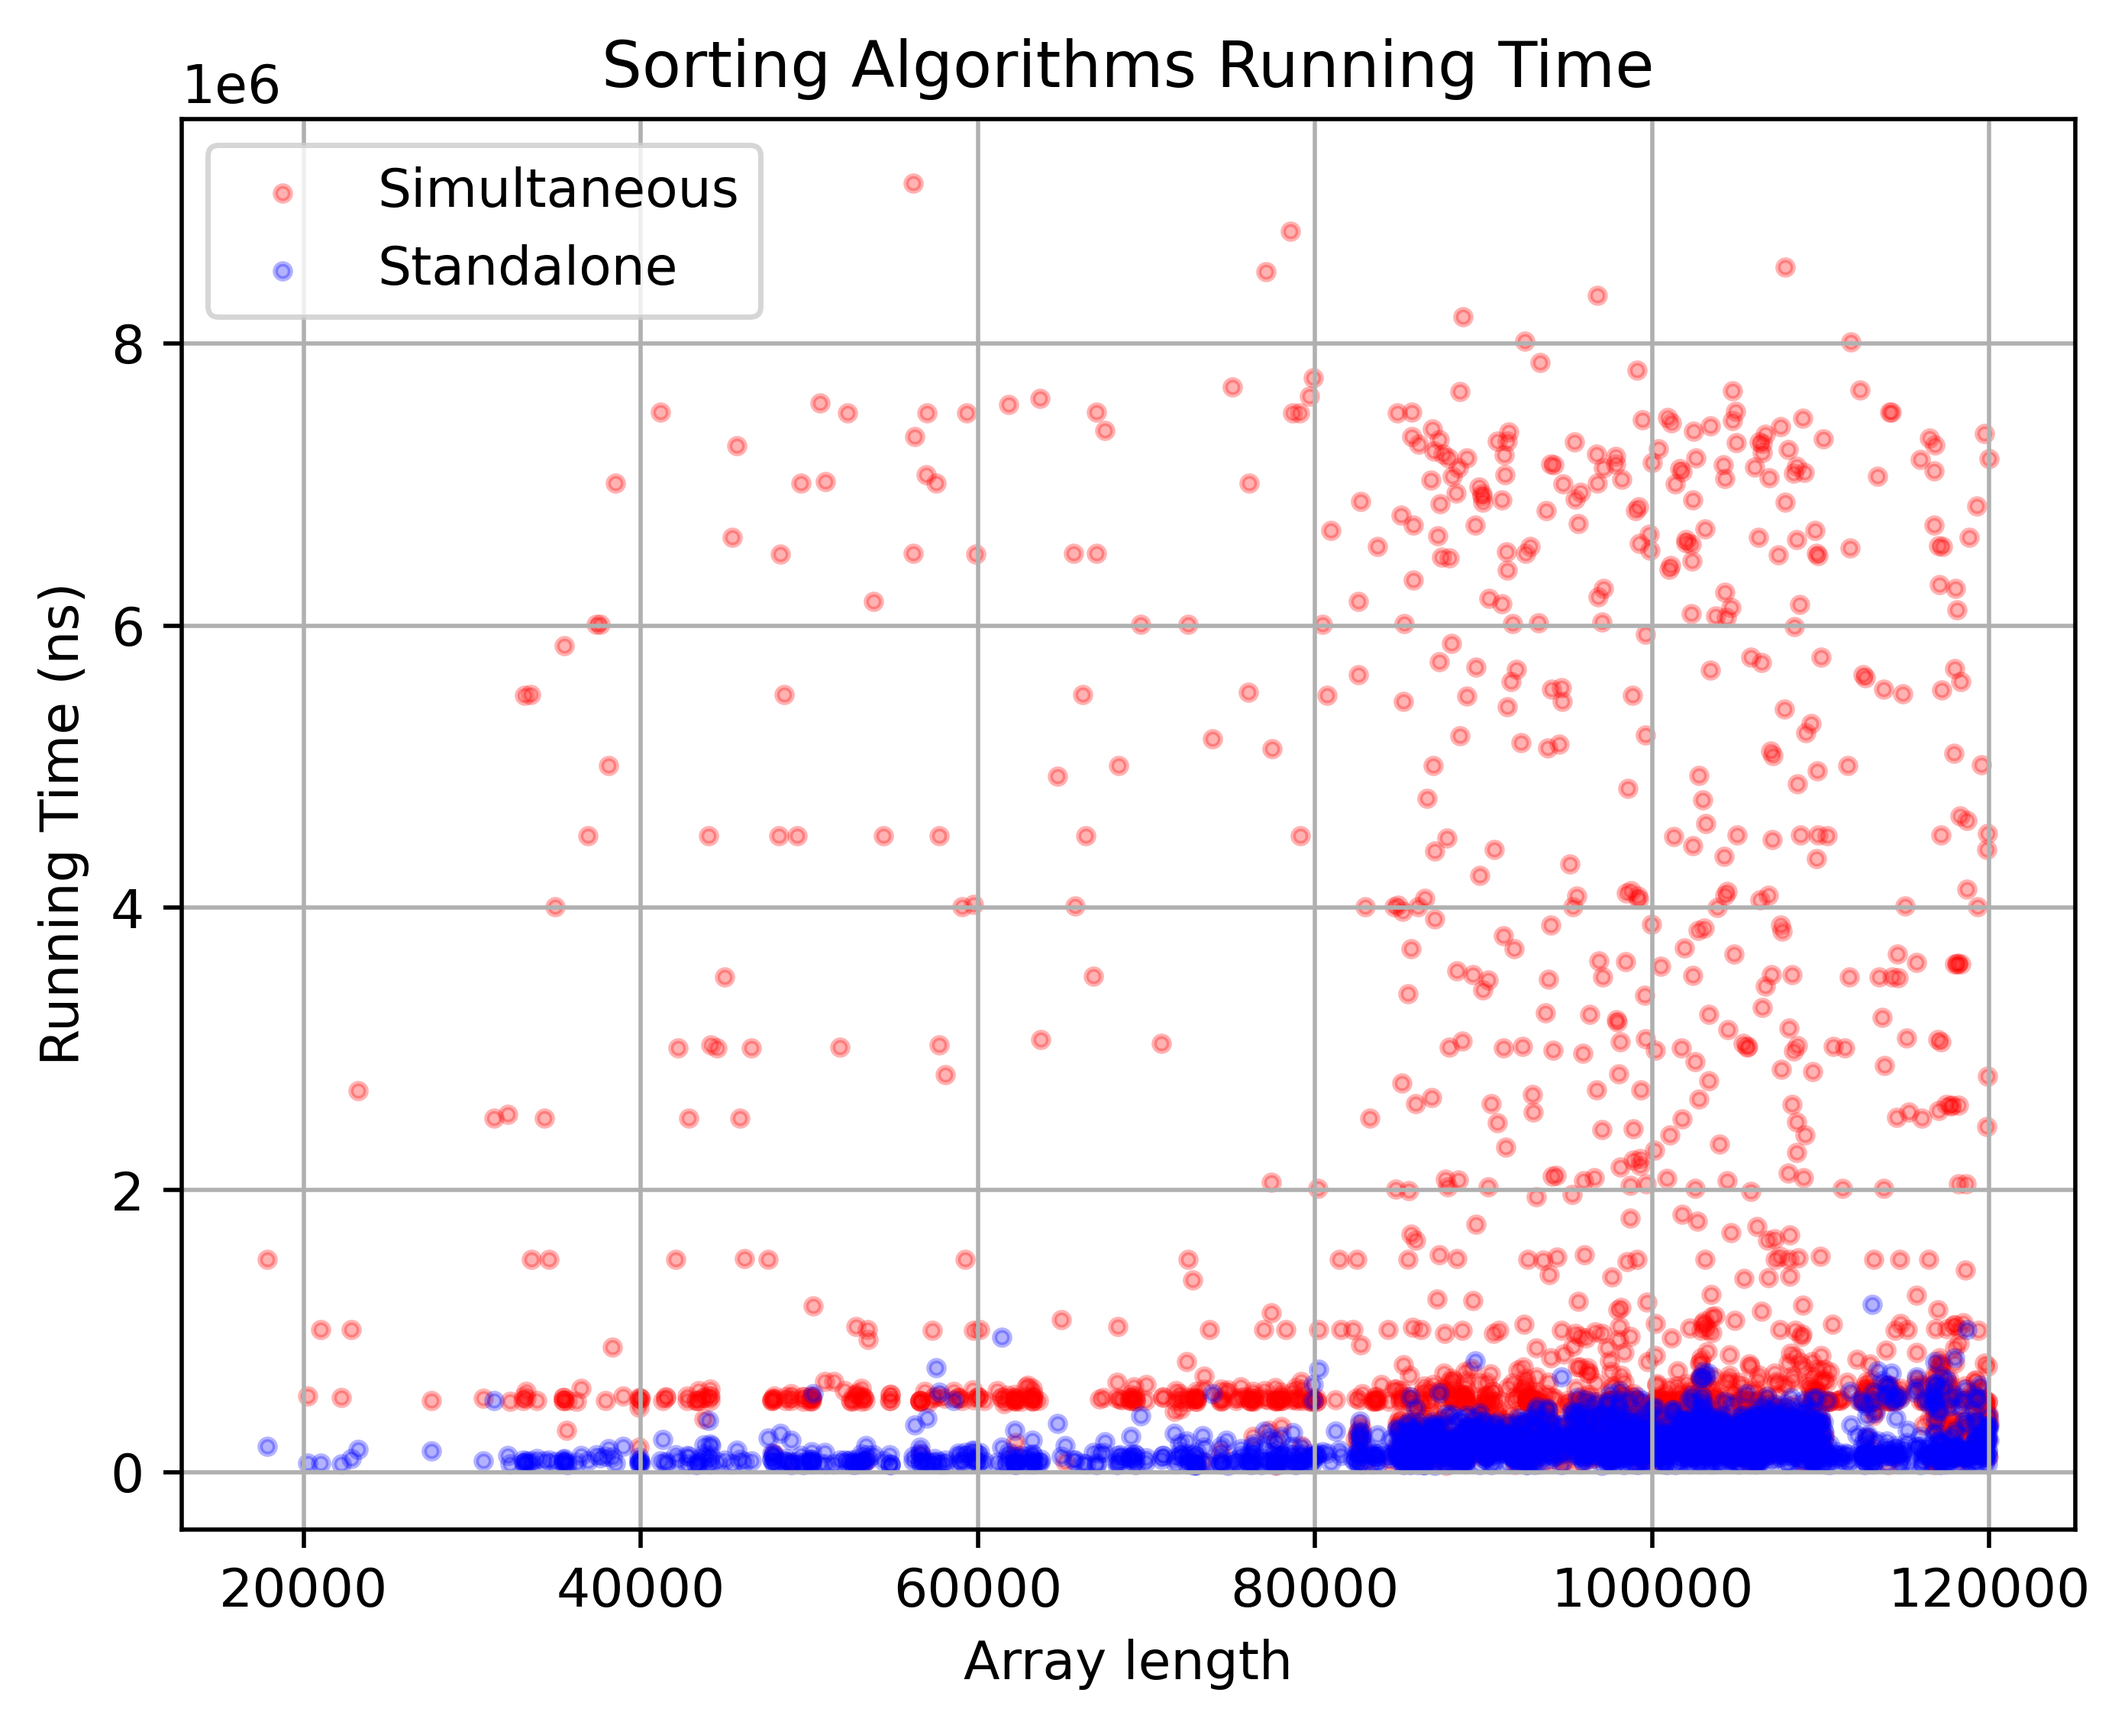
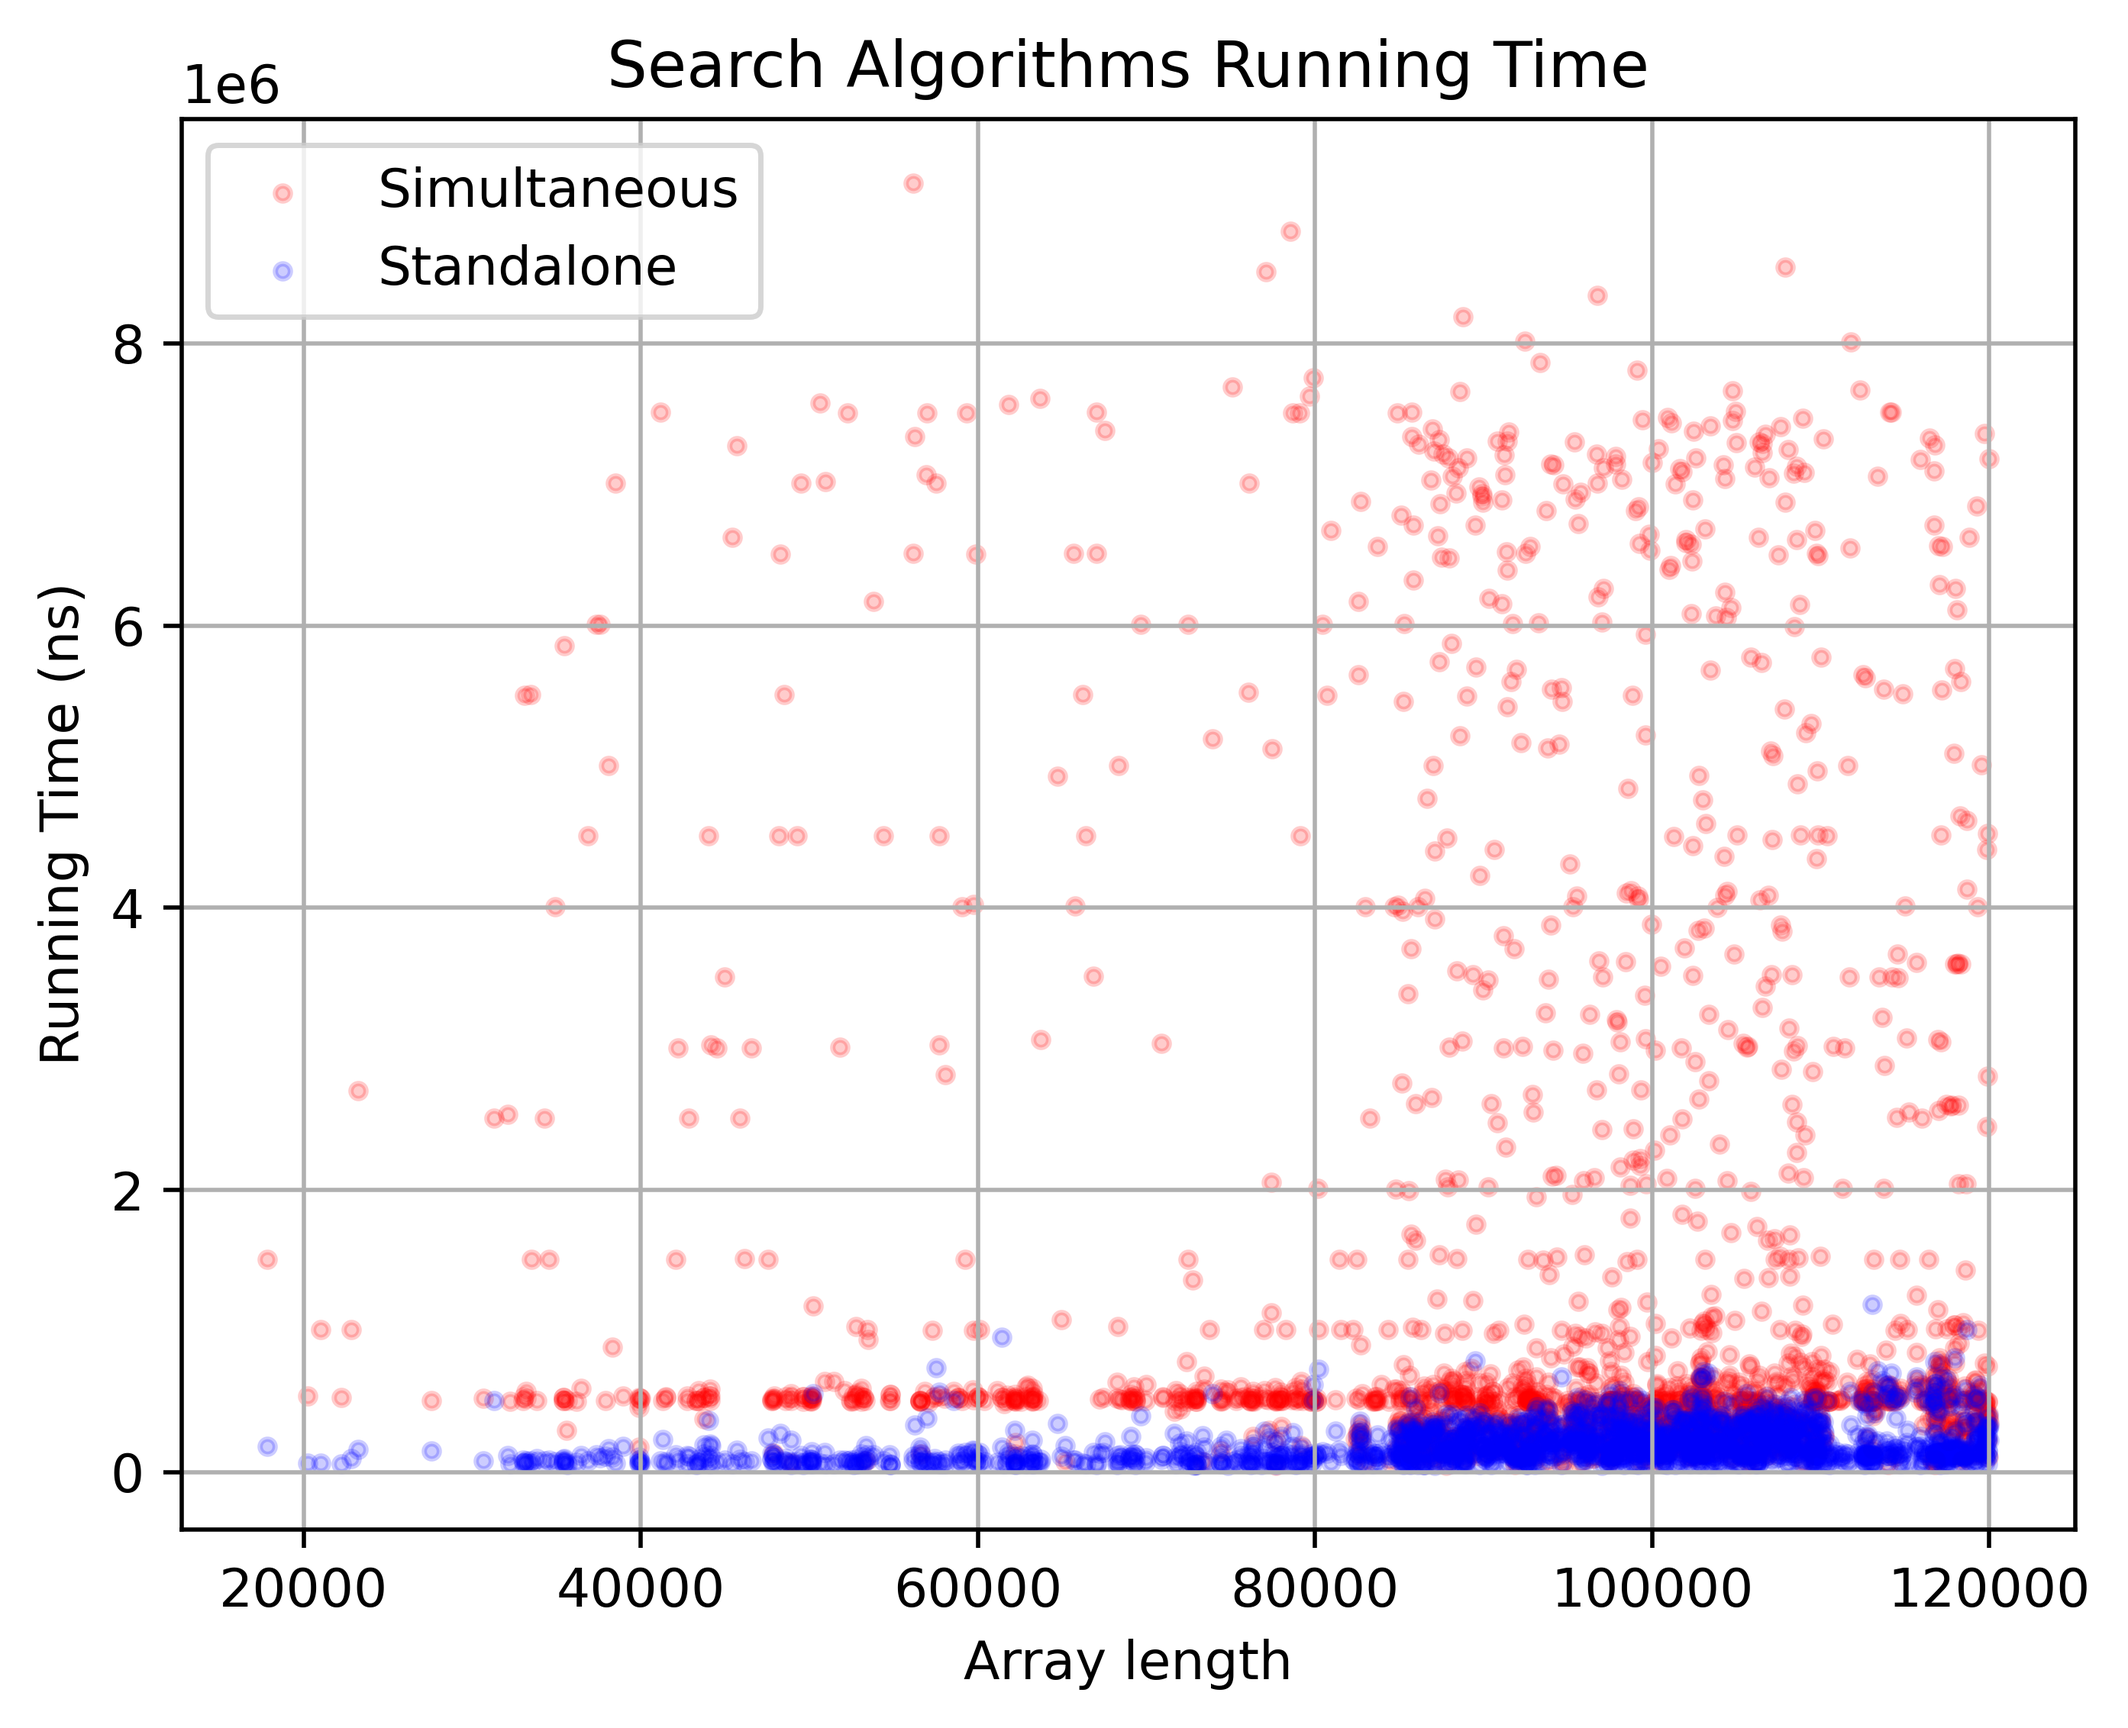
chore: rename title

diff --git a/python/display/display-minmax.py b/python/display/display-minmax.py
@@ -22,11 +22,11 @@ n = n[mask]
 tempos_simultaneous = tempos_simultaneous[mask]
 tempos_standalone = tempos_standalone[mask]
 
-plt.scatter(n, tempos_simultaneous, color='red',s=8, label='Simultaneous', alpha=0.3)
+plt.scatter(n, tempos_simultaneous, color='red',s=8, label='Simultaneous', alpha=0.2)
 
-plt.scatter(n, tempos_standalone, color='blue',s=8, label='Standalone', alpha=0.3)
+plt.scatter(n, tempos_standalone, color='blue',s=8, label='Standalone', alpha=0.2)
 
-plt.title("Sorting Algorithms Running Time")
+plt.title("Search Algorithms Running Time")
 plt.xlabel("Array length")
 plt.ylabel("Running Time (ns)")
 
